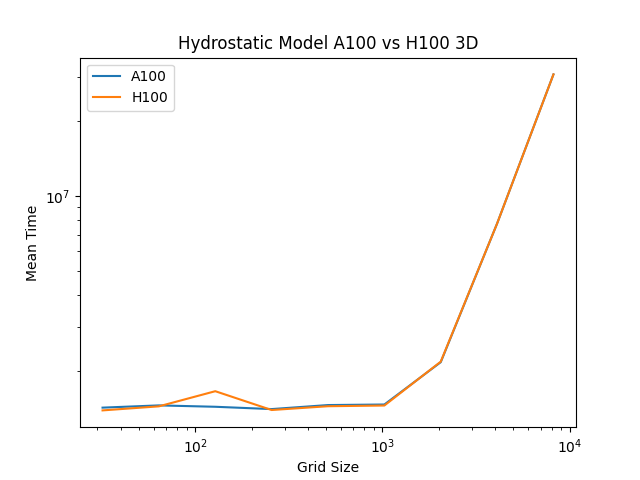
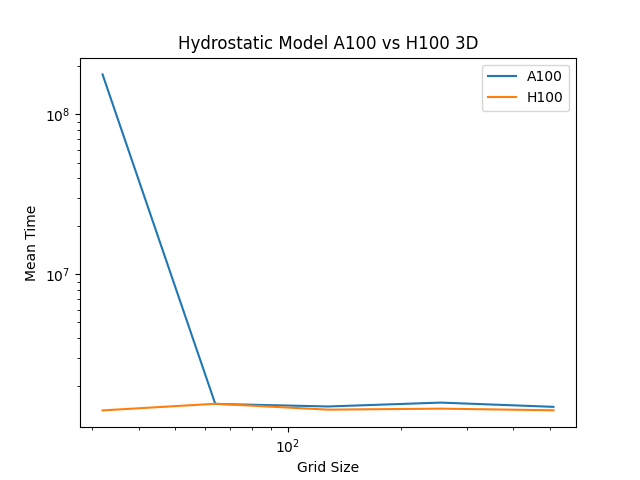
Fixed 3d plots

diff --git a/new_benchmarks/3d_plotter.py b/new_benchmarks/3d_plotter.py
@@ -2,13 +2,13 @@ import pandas as pd
 import matplotlib.pyplot as plt 
 import numpy as np 
 
-data_a100 = pd.read_csv("./A100.csv", delimiter=",",index_col=None)
+data_a100 = pd.read_csv("./A100_3d.csv", delimiter=",",index_col=None)
 hydrostatic_a100 = data_a100[(data_a100["Model"] == "Hydrostatic")]
 
-data_h100 = pd.read_csv("./H100.csv", delimiter=",",index_col=None)
+data_h100 = pd.read_csv("./H100_3d.csv", delimiter=",",index_col=None)
 hydrostatic_h100 = data_h100[(data_h100["Model"] == "Hydrostatic")]
 
-grid_sizes = np.array([32,64,128,256,512,1024,2048,4096,4096*2])
+grid_sizes = np.array([32,64,128,256,512])
 
 #comparison of the gpus
 plt.loglog(grid_sizes, hydrostatic_a100["MeanTime"])
